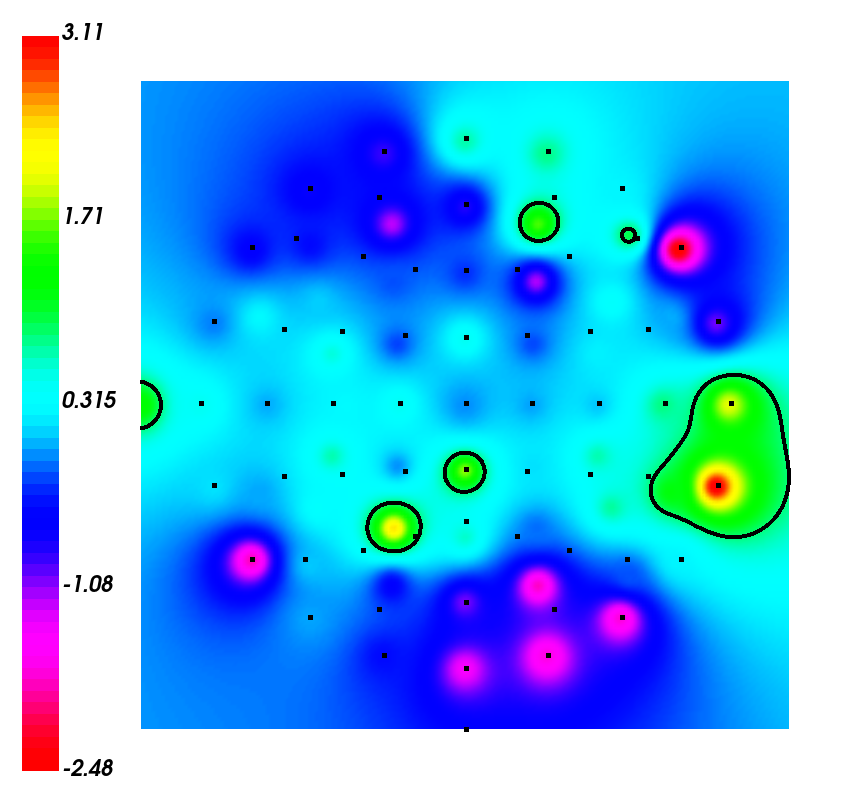
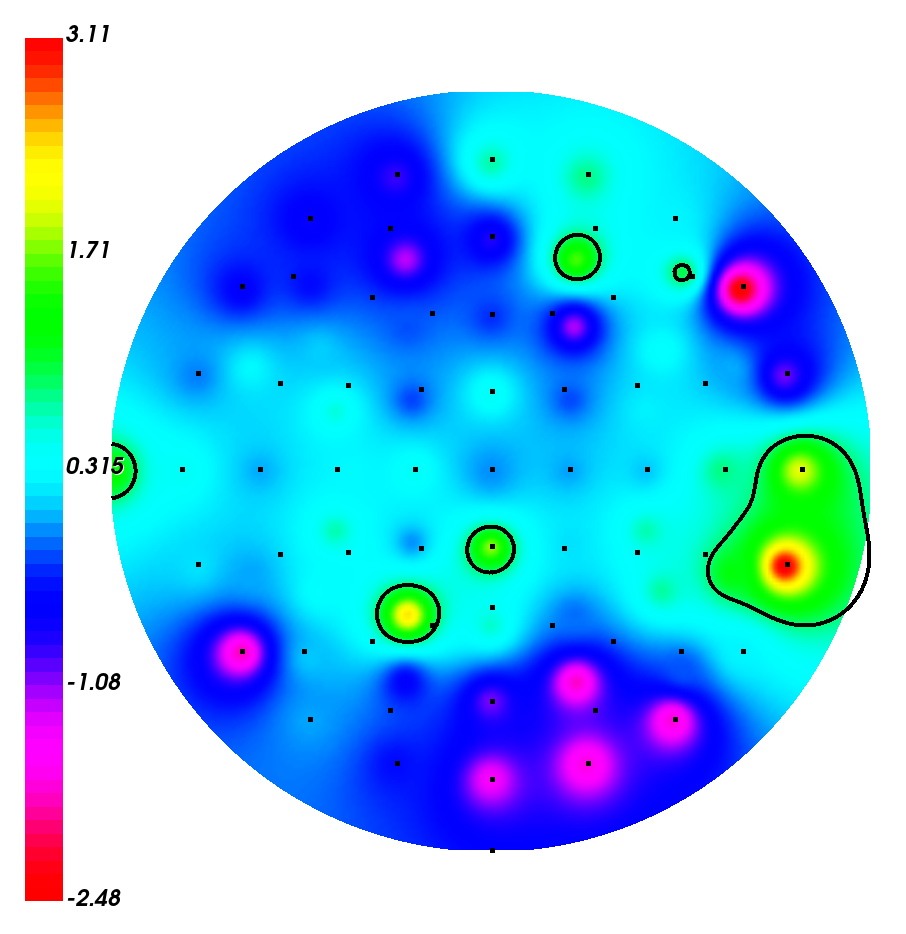
add: preview for clip

diff --git a/科学计算可视化及应用开发/EEG/README.md b/科学计算可视化及应用开发/EEG/README.md
@@ -26,7 +26,7 @@
 
         - Bar 的颜色不太好调成 红-蓝 渐变orz
         - 是助教给的工具链
-        - 糊好了等值线
+        - 糊好了等值线、糊好了裁切（但是没有切等值线 😂）
         ![](./img/VTK_2D.png)
 
 - 数据集来自 [GitHub 仓库](https://github.com/mastaneht/SPIS-Resting-State-Dataset)
